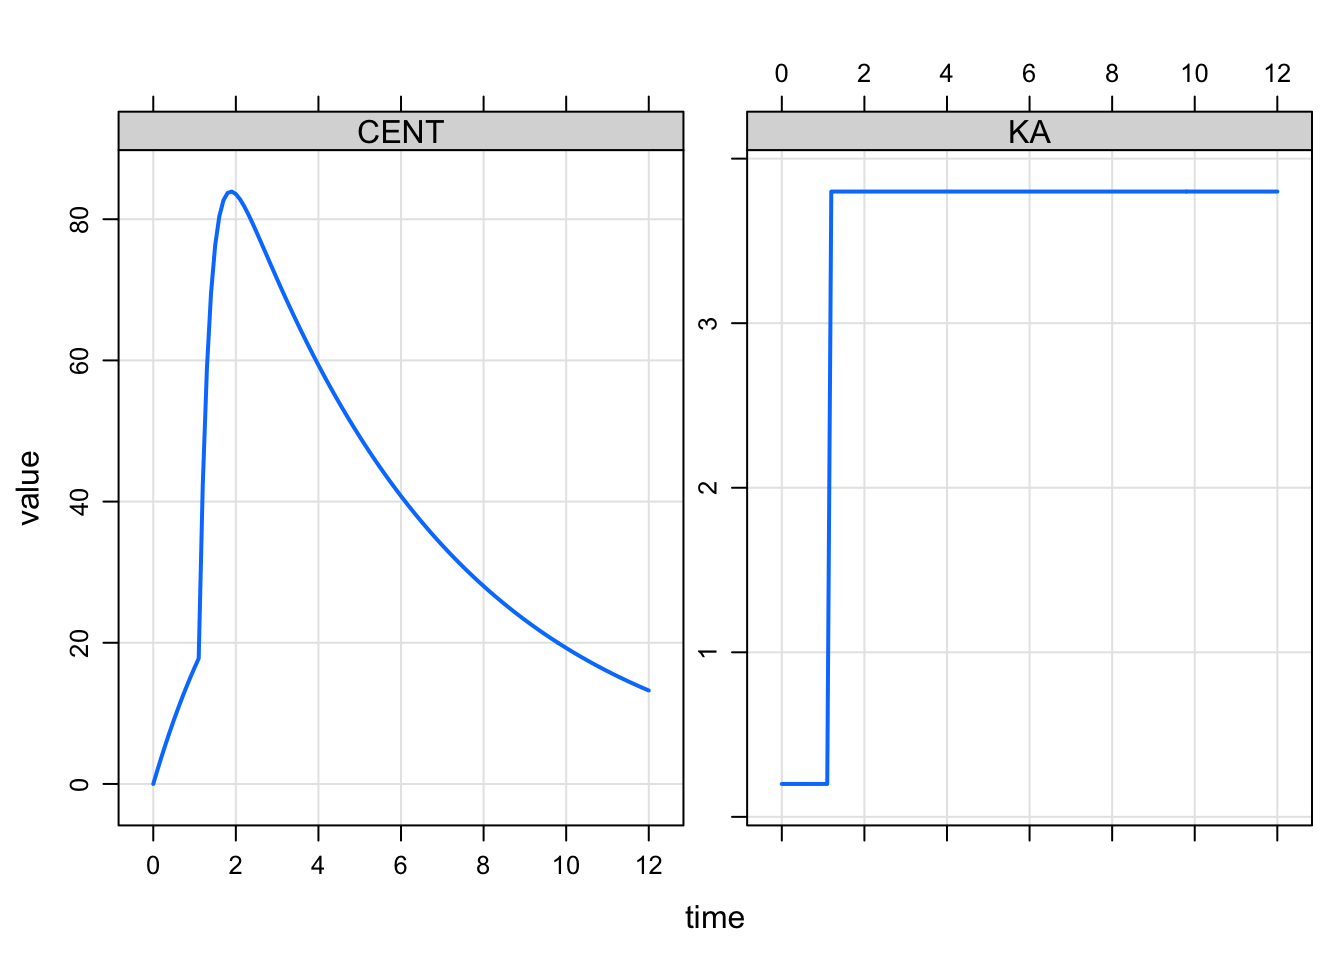
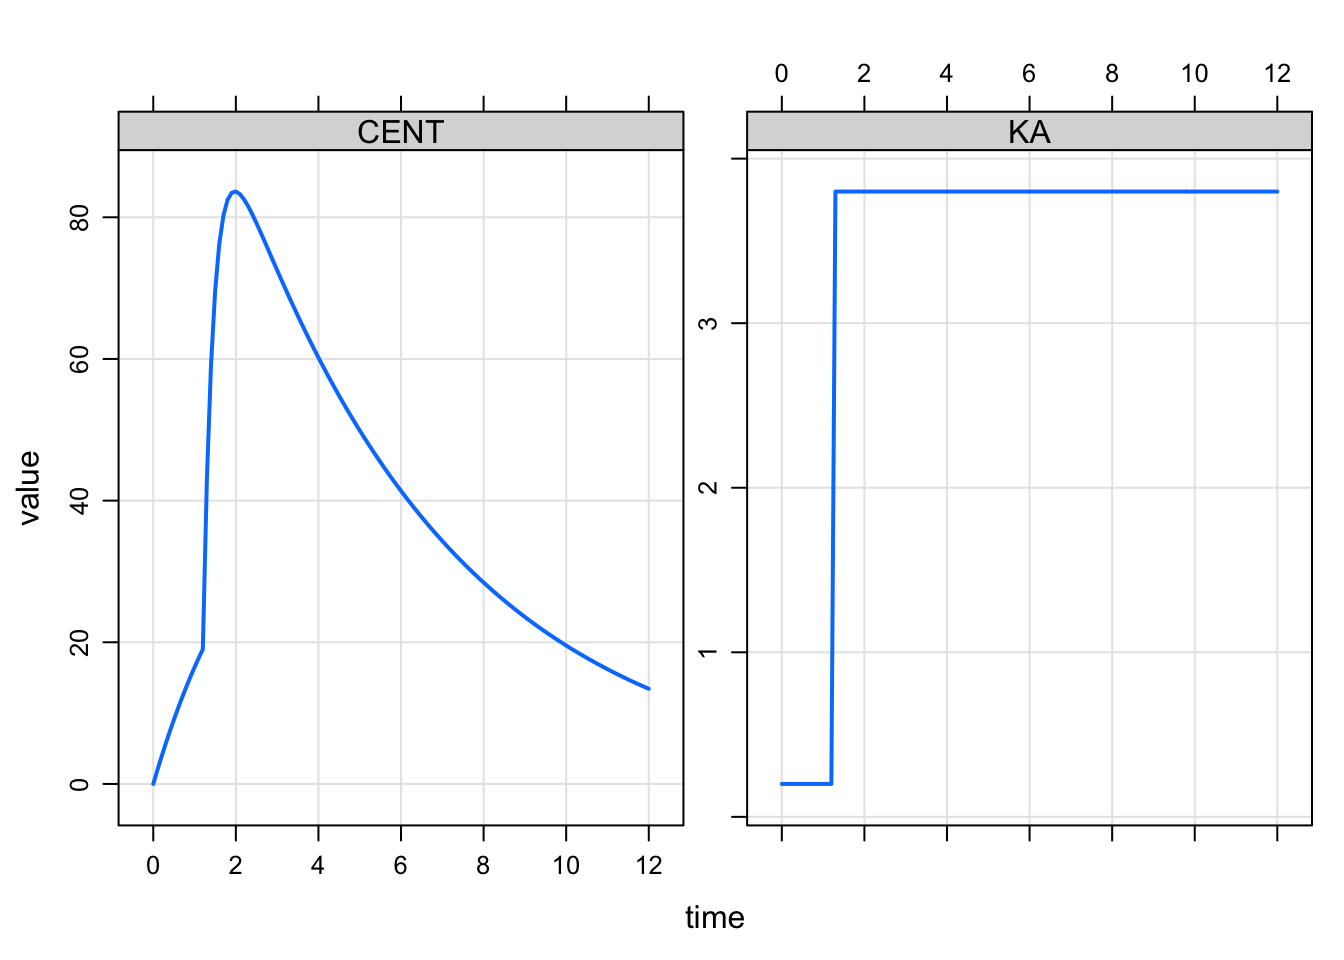
tweak mtime time

diff --git a/docs/mevent.html b/docs/mevent.html
@@ -527,13 +527,13 @@ div.tocify {
 <p>In the first part of <code>[ MAIN ]</code>, I will create a variable called <code>mtime</code> and initialize it to some large, arbitrary value. This is the time of the modeled event and we will eventually want to check to see if we are past this time. Initializing to this large .value will ensure we aren’t past <code>mtime</code> when the problem starts. This is Part A.</p>
 <div class="sourceCode" id="cb2"><pre class="sourceCode c"><code class="sourceCode c"><a class="sourceLine" id="cb2-1" title="1"><span class="co">// Part A</span></a>
 <a class="sourceLine" id="cb2-2" title="2"><span class="cf">if</span>(NEWIND &lt;=<span class="dv">1</span> ) capture mtime  = <span class="fl">1E10</span>;</a></code></pre></div>
-<p>Next, we’ll come up with some condition that will trigger the creation of the future discontinuity. In this example, we’ll check to see when a dose was given and schedule the event <code>1.2</code> hours into the future. We keep track of that future time in the <code>mtime</code> variable. That’s Part B.</p>
+<p>Next, we’ll come up with some condition that will trigger the creation of the future discontinuity. In this example, we’ll check to see when a dose was given and schedule the event <code>1.23</code> hours into the future. We keep track of that future time in the <code>mtime</code> variable. That’s Part B.</p>
 <div class="sourceCode" id="cb3"><pre class="sourceCode c"><code class="sourceCode c"><a class="sourceLine" id="cb3-1" title="1"><span class="co">// Part B</span></a>
 <a class="sourceLine" id="cb3-2" title="2"><span class="cf">if</span>(EVID==<span class="dv">1</span>) {</a>
 <a class="sourceLine" id="cb3-3" title="3">  mtime = TIME + <span class="fl">1.23</span>;</a>
 <a class="sourceLine" id="cb3-4" title="4">  self.mevent(mtime, <span class="dv">33</span>);</a>
 <a class="sourceLine" id="cb3-5" title="5">}</a></code></pre></div>
-<p>There is a function in the <code>self</code> object called <code>mtime()</code> that takes two arguments: first the <code>TIME</code> of the event and second the <code>EVID</code>. In this example, we create a record with <code>EVID</code> of 33 at 1.2 hours after the dose. We pick <code>EVID</code> 33 as a unique flag for this event. But beyond that, the specific value isn’t important.</p>
+<p>There is a function in the <code>self</code> object called <code>mtime()</code> that takes two arguments: first the <code>TIME</code> of the event and second the <code>EVID</code>. In this example, we create a record with <code>EVID</code> of 33 at 1.23 hours after the dose. We pick <code>EVID</code> 33 as a unique flag for this event. But beyond that, the specific value isn’t important.</p>
 <p>The final piece of this toy model is to check to see if the system has been advanced past <code>mtime</code>.</p>
 <div class="sourceCode" id="cb4"><pre class="sourceCode c"><code class="sourceCode c"><a class="sourceLine" id="cb4-1" title="1"><span class="co">// Part C</span></a>
 <a class="sourceLine" id="cb4-2" title="2">capture past = TIME &gt;= mtime;</a></code></pre></div>
@@ -586,7 +586,7 @@ div.tocify {
 <a class="sourceLine" id="cb10-7" title="7"><span class="cf">if</span>(NEWIND &lt;=<span class="dv">1</span>) <span class="dt">double</span> mtime = <span class="fl">1E10</span>;</a>
 <a class="sourceLine" id="cb10-8" title="8"></a>
 <a class="sourceLine" id="cb10-9" title="9"><span class="cf">if</span>(EVID==<span class="dv">1</span>) {</a>
-<a class="sourceLine" id="cb10-10" title="10">  mtime = TIME + <span class="fl">1.2</span>;</a>
+<a class="sourceLine" id="cb10-10" title="10">  mtime = TIME + <span class="fl">1.23</span>;</a>
 <a class="sourceLine" id="cb10-11" title="11">  self.mevent(mtime, <span class="dv">33</span>);</a>
 <a class="sourceLine" id="cb10-12" title="12">}</a>
 <a class="sourceLine" id="cb10-13" title="13"></a>

diff --git a/docs/mevent_1.cpp b/docs/mevent_1.cpp
@@ -7,7 +7,7 @@
 if(NEWIND <=1) double mtime = 1E10;
 
 if(EVID==1) {
-  mtime = TIME + 1.2;
+  mtime = TIME + 1.23;
   self.mevent(mtime, 33);
 }
 

diff --git a/source/mevent_1.cpp b/source/mevent_1.cpp
@@ -7,7 +7,7 @@
 if(NEWIND <=1) double mtime = 1E10;
 
 if(EVID==1) {
-  mtime = TIME + 1.2;
+  mtime = TIME + 1.23;
   self.mevent(mtime, 33);
 }
 
